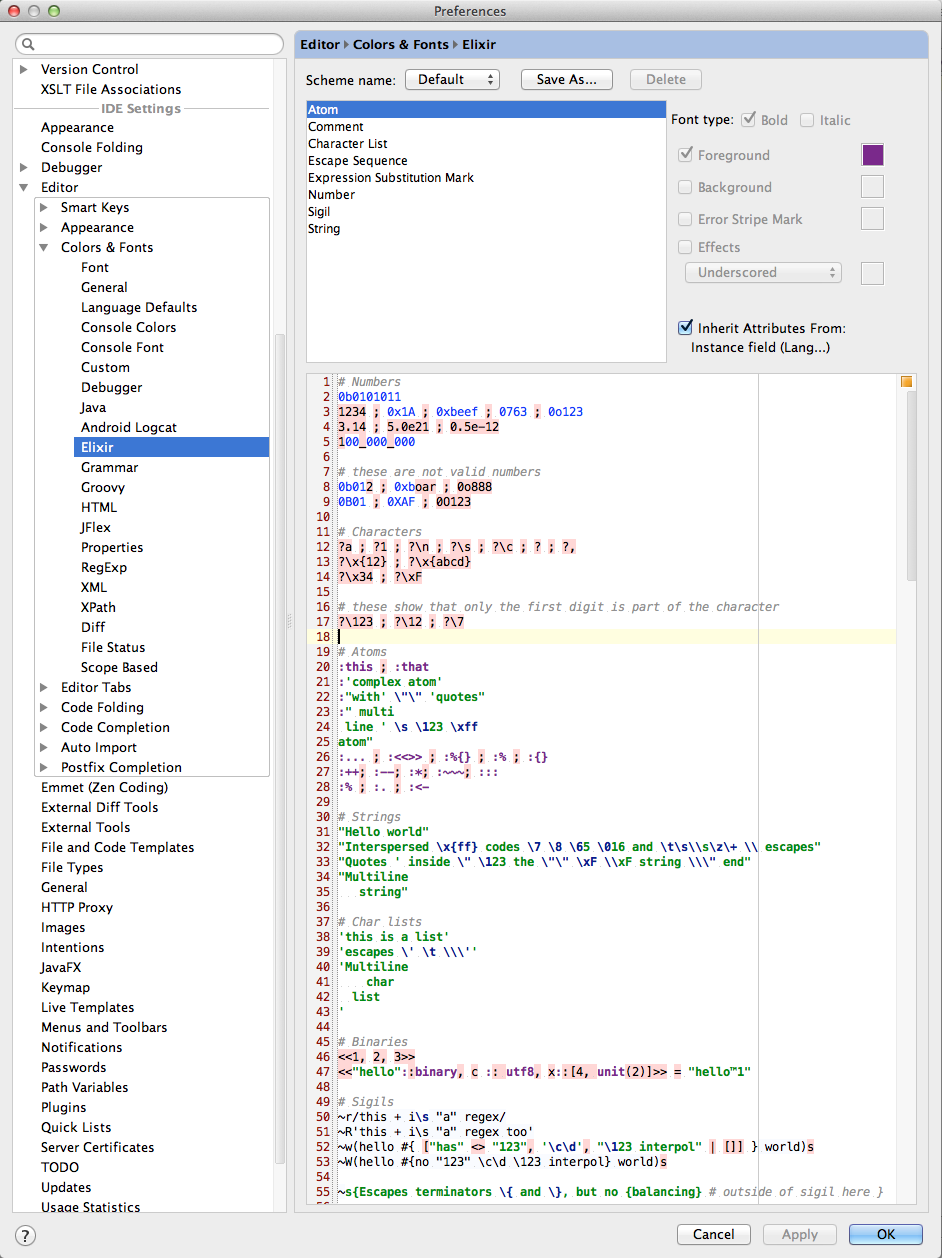
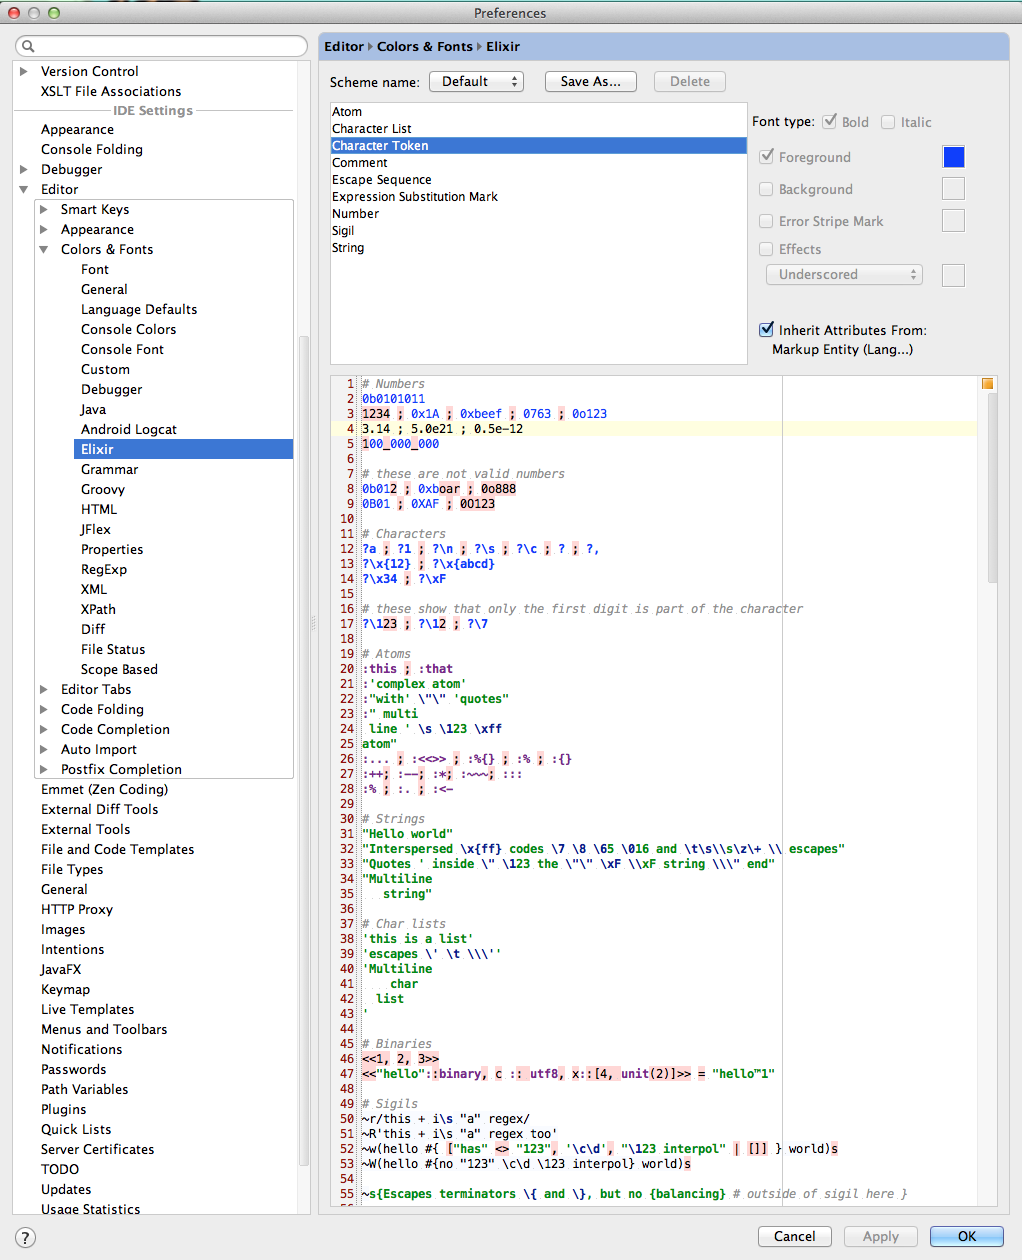
Add Chararacter Tokens to Color Settings Page
Update screenshot to match changes.

Changed region(s): [[0.0, 0.0, 1.0, 0.9921], [0.9851, 0.9921, 1.0, 1.0]]

diff --git a/src/org/elixir_lang/ElixirSyntaxHighlighter.java b/src/org/elixir_lang/ElixirSyntaxHighlighter.java
@@ -32,6 +32,11 @@ public class ElixirSyntaxHighlighter extends SyntaxHighlighterBase {
             DefaultLanguageHighlighterColors.STRING
     );
 
+    public static final TextAttributesKey CHAR_TOKEN = createTextAttributesKey(
+            "ELIXIR_CHAR_TOKEN",
+            DefaultLanguageHighlighterColors.MARKUP_ENTITY
+    );
+
     public static final TextAttributesKey COMMENT = createTextAttributesKey(
             "ELIXIR_COMMENT",
             DefaultLanguageHighlighterColors.LINE_COMMENT
@@ -66,6 +71,7 @@ public class ElixirSyntaxHighlighter extends SyntaxHighlighterBase {
     private static final TextAttributesKey[] ATOM_KEYS = new TextAttributesKey[]{ATOM};
     private static final TextAttributesKey[] BAD_CHAR_KEYS = new TextAttributesKey[]{BAD_CHARACTER};
     private static final TextAttributesKey[] CHAR_LIST_KEYS = new TextAttributesKey[]{CHAR_LIST};
+    private static final TextAttributesKey[] CHAR_TOKEN_KEYS = new TextAttributesKey[]{CHAR_TOKEN};
     private static final TextAttributesKey[] COMMENT_KEYS = new TextAttributesKey[]{COMMENT};
     private static final TextAttributesKey[] EMPTY_KEYS = new TextAttributesKey[0];
     private static final TextAttributesKey[] EXPRESSION_SUBSTITUTION_MARK_KEYS = new TextAttributesKey[]{EXPRESSION_SUBSTITUTION_MARK};
@@ -150,6 +156,8 @@ public class ElixirSyntaxHighlighter extends SyntaxHighlighterBase {
             return BAD_CHAR_KEYS;
         } else if (CHAR_LISTS.contains(tokenType)) {
             return CHAR_LIST_KEYS;
+        } else if (tokenType == ElixirTypes.CHAR_TOKEN) {
+            return CHAR_TOKEN_KEYS;
         } else if (tokenType.equals(ElixirTypes.COMMENT)) {
             return COMMENT_KEYS;
         } else if (EXPRESSION_SUBSTITUTION_MARKS.contains(tokenType)) {

diff --git a/src/org/elixir_lang/ElixirColorSettingsPage.java b/src/org/elixir_lang/ElixirColorSettingsPage.java
@@ -22,6 +22,7 @@ public class ElixirColorSettingsPage implements ColorSettingsPage {
     private static final AttributesDescriptor[] DESCRIPTORS = new AttributesDescriptor[]{
             new AttributesDescriptor("Atom", ElixirSyntaxHighlighter.ATOM),
             new AttributesDescriptor("Character List", ElixirSyntaxHighlighter.CHAR_LIST),
+            new AttributesDescriptor("Character Token", ElixirSyntaxHighlighter.CHAR_TOKEN),
             new AttributesDescriptor("Comment", ElixirSyntaxHighlighter.COMMENT),
             new AttributesDescriptor("Escape Sequence", ElixirSyntaxHighlighter.VALID_ESCAPE_SEQUENCE),
             new AttributesDescriptor("Expression Substitution Mark", ElixirSyntaxHighlighter.EXPRESSION_SUBSTITUTION_MARK),
